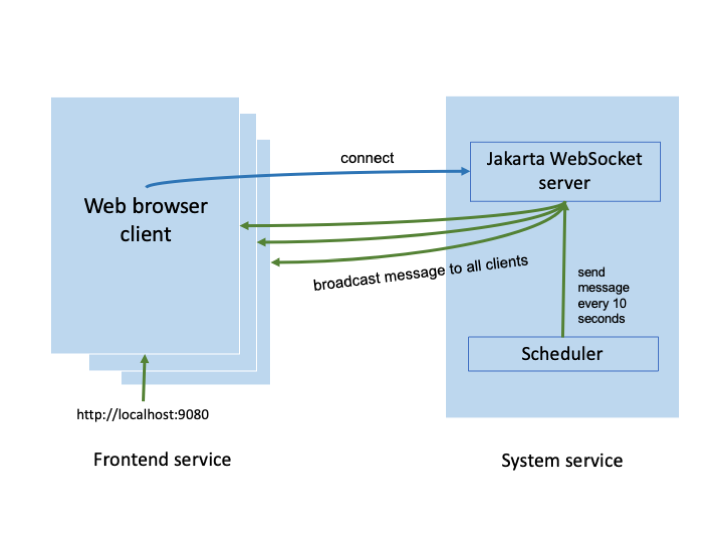
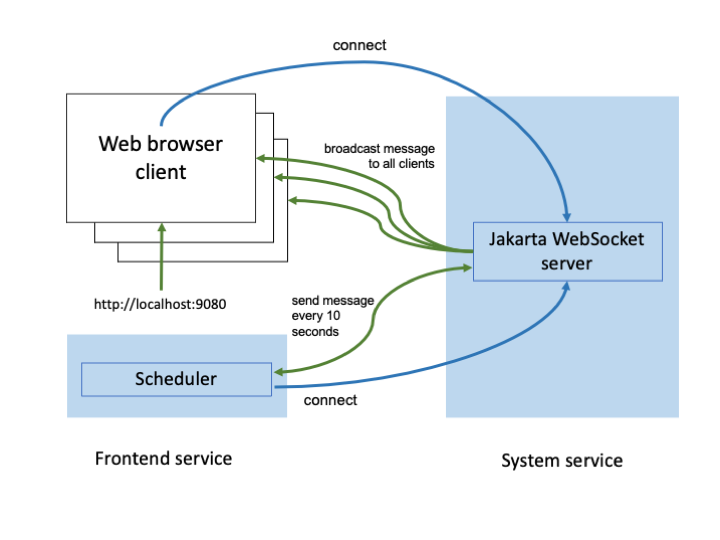
move the scheduler to the frontend sevice

diff --git a/finish/frontend/src/main/java/io/openliberty/guides/frontend/scheduler/SystemClient.java b/finish/frontend/src/main/java/io/openliberty/guides/frontend/scheduler/SystemClient.java
@@ -1,4 +1,4 @@
-package io.openliberty.guides.system.scheduler;
+package io.openliberty.guides.frontend.scheduler;
 // tag::copyright[]
 /*******************************************************************************
  * Copyright (c) 2022 IBM Corporation and others.
@@ -10,7 +10,6 @@ package io.openliberty.guides.system.scheduler;
  * Contributors:
  *     IBM Corporation - Initial implementation
  *******************************************************************************/
-
 
 import java.io.IOException;
 import java.net.URI;

diff --git a/finish/system/src/main/java/io/openliberty/guides/system/SystemService.java b/finish/system/src/main/java/io/openliberty/guides/system/SystemService.java
@@ -30,9 +30,9 @@ import jakarta.websocket.OnOpen;
 import jakarta.websocket.Session;
 import jakarta.websocket.server.ServerEndpoint;
 
-@ServerEndpoint(value = "/systemLoad",
-                decoders = {SystemLoadDecoder.class},
-                encoders = {SystemLoadEncoder.class})
+@ServerEndpoint( value = "/systemLoad",
+                 decoders = { SystemLoadDecoder.class },
+                 encoders = { SystemLoadEncoder.class } )
 public class SystemService {
 
     private static Set<Session> sessions = new HashSet<>();

diff --git a/finish/frontend/src/main/java/io/openliberty/guides/frontend/scheduler/SystemLoadScheduler.java b/finish/frontend/src/main/java/io/openliberty/guides/frontend/scheduler/SystemLoadScheduler.java
@@ -10,7 +10,7 @@
  *     IBM Corporation - Initial implementation
  *******************************************************************************/
 // end::copyright[]
-package io.openliberty.guides.system.scheduler;
+package io.openliberty.guides.frontend.scheduler;
 
 import java.net.URI;
 import java.util.Random;
